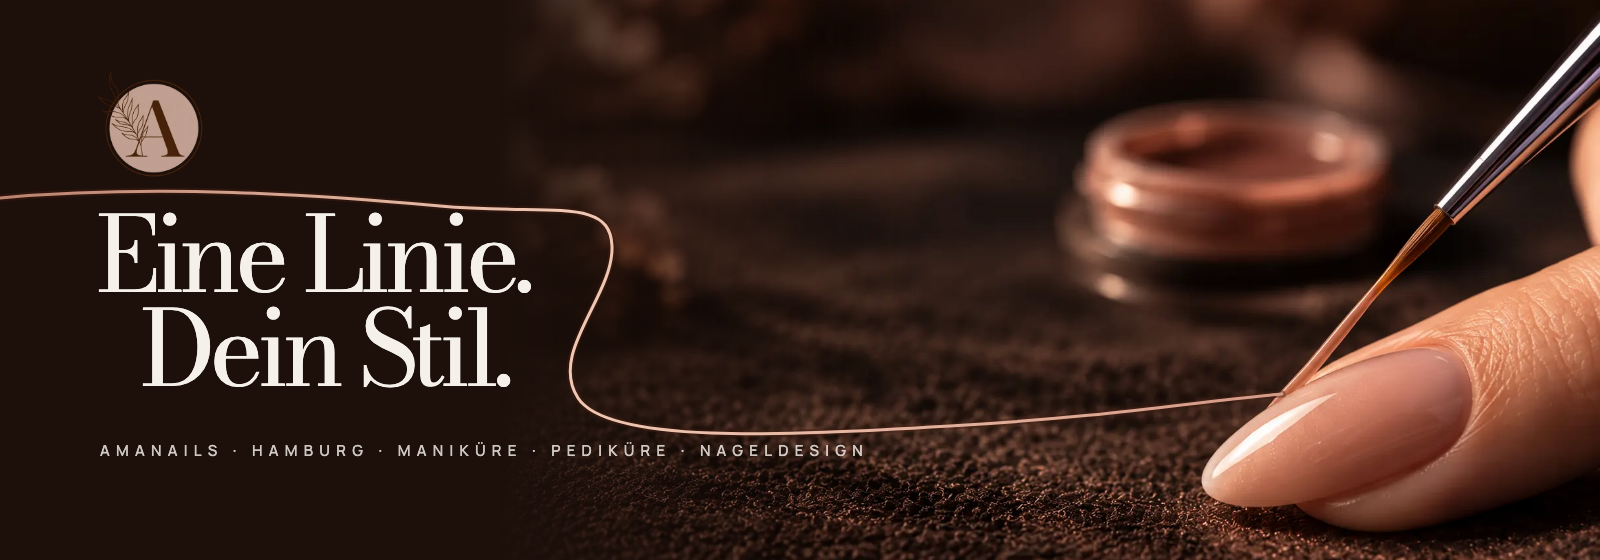
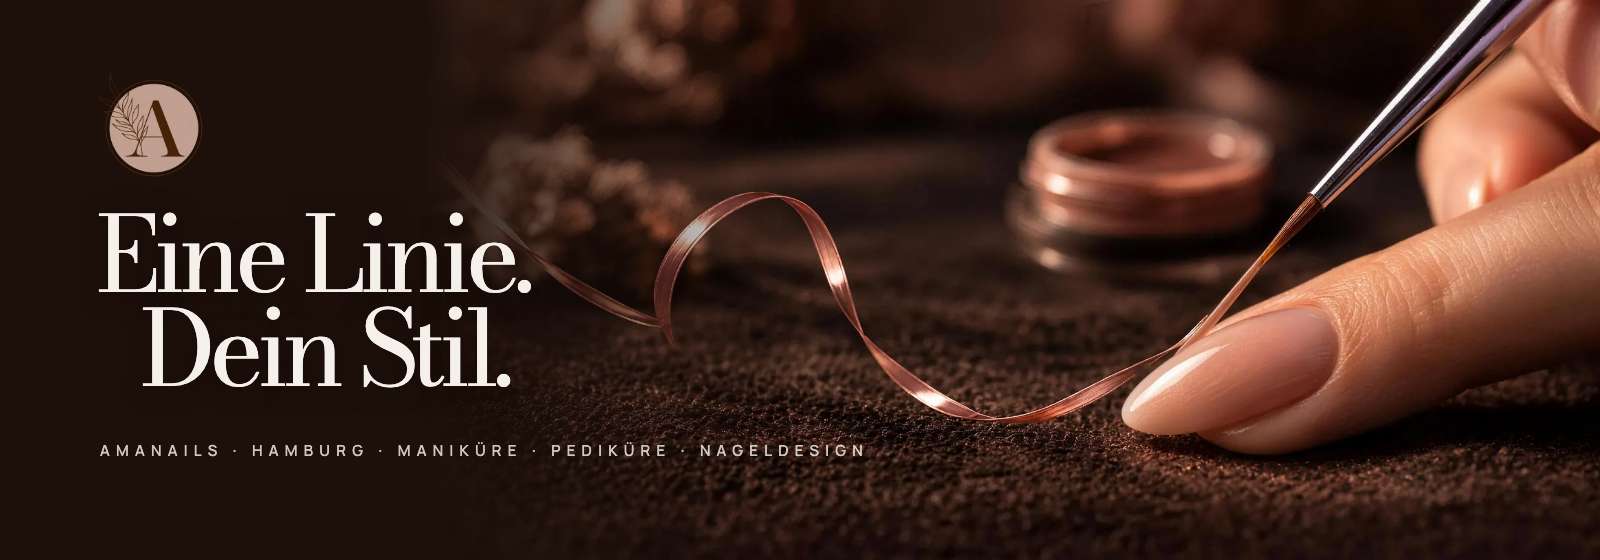
README for v2: the brush film, desktop density, satin ribbons
Banner, GIF and screen sheets re-captured from the production build. The GIF
steps the film by seeking (0.1 s per frame) and scrubs the title's CSS
transitions, so it shows the opening at its real pace (100 frames, 3.7 MB).
Text rewritten for the approved v2: board drawn at 1024 px density, plates at
the board's scale and outpainted, the keyframed MiniMax film, photographed
satin ribbons, measured page weight, 68 QA checks, the new scripts. The
generated-imagery TODO now covers the film and the ribbons.

diff --git a/index.html b/index.html
@@ -43,7 +43,7 @@
 
 <main id="top">
   <!-- 01 · Eine Linie. Dein Stil. (campaign plate, brush + nail in front of the title) -->
-  <!-- TODO(amanails): owner signs off the two generated plates (opening, macro); if an image-source note is wanted, it goes in the Impressum -->
+  <!-- TODO(amanails): owner signs off the generated imagery (opening plate and film, macro, satin ribbons); if an image-source note is wanted, it goes in the Impressum -->
   <section id="start" class="hero" aria-labelledby="hero-title">
     <div class="hero-stage">
       <div class="hero-cam" data-cam>

diff --git a/scripts/readme-composite.py b/scripts/readme-composite.py
@@ -75,6 +75,6 @@ print("banner.png", round((OUT / "banner.png").stat().st_size / 1024), "KB")
 frames = sorted((SRC / "frames").glob("f_*.png"))
 subprocess.run([
     "ffmpeg", "-y", "-loglevel", "error", "-framerate", "10", "-i", str(SRC / "frames/f_%04d.png"),
-    "-vf", "fps=7,scale=720:-1:flags=lanczos,split[a][b];[a]palettegen=max_colors=96:stats_mode=diff[p];[b][p]paletteuse=dither=bayer:bayer_scale=5:diff_mode=rectangle",
+    "-vf", "fps=10,scale=720:-1:flags=lanczos,split[a][b];[a]palettegen=max_colors=80:stats_mode=diff[p];[b][p]paletteuse=dither=bayer:bayer_scale=5:diff_mode=rectangle",
     "-loop", "0", str(OUT / "hero-scroll.gif")], check=True)
 print("hero-scroll.gif", len(frames), "frames", round((OUT / "hero-scroll.gif").stat().st_size / 1024), "KB")

diff --git a/README.md b/README.md
@@ -2,7 +2,7 @@
 
 <img src=".github/assets/banner.png" alt="Amanails Hamburg: Eine Linie. Dein Stil." width="100%" />
 
-<h3>A one-page website for a Hamburg nail studio, built around one rosé line that leaves the brush and runs through the whole page.</h3>
+<h3>A one-page website for a Hamburg nail studio that opens with one gesture: a fine brush releases a rosé satin ribbon.</h3>
 
 <p>
   <a href="https://amanails-hamburg.vercel.app"><strong>🌐 Live site</strong></a>
@@ -26,14 +26,15 @@
 
 ## 🚀 Overview
 
-**Amanails** does manicure, pedicure and nail design in Hamburg's Wendenstraße. The approved direction, *Gesto*, turns the studio's craft into a single gesture: a fine brush draws a rosé line across a nude nail, and that same line keeps going as you scroll. It wraps the title, slips between the detail shot and the real work, runs along the one blush pause with the services, and ends in the studio itself.
+**Amanails** does manicure, pedicure and nail design in Hamburg's Wendenstraße. The approved direction, *Gesto*, turns the studio's craft into a single gesture: a fine brush lifts from a nude nail and a satin ribbon of rosé lacquer unfurls from its tip. The same satin then rides the edges between the scenes, from the macro shot to the real work, the one blush pause with the services and the studio itself.
 
-The desktop page is the client's approved board rebuilt at its own proportions; the phone layout keeps the same story in one column. Everything leads to one action: **Termin anfragen**, which opens a short sheet with Instagram, phone and address. There is no booking engine and no fake confirmation.
+The desktop page is the client's approved board rebuilt at the density of a desktop page; the phone layout keeps the same story in one column. Everything leads to one action: **Termin anfragen**, which opens a short sheet with Instagram, phone and address. There is no booking engine and no fake confirmation.
 
-- **Board-exact desktop**: text, logo and contours placed in board units measured from the approved mockup
+- **Board-exact, at the right scale**: text, logo, photos and contours placed in board units measured from the approved mockup, drawn at the density of a 1,024 px board so nothing reads as a zoomed-in crop
+- **A filmed gesture, not a drawn line**: the opening is a short film generated from the scene's own first and last frames; the satin on the edges is photographed ribbon, not vector strokes
 - **Type behind the subject**: the title sits behind the finger and the brush, *DEIN.* sits behind the client's real hands
 - **Real studio, real work**: the two documentary photos are shown as they are; the full work photo opens byte-for-byte as received
-- **Light**: about 540 KB for the whole page on desktop and 370 KB on a phone (AVIF, self-hosted fonts, no library)
+- **Measured weight**: about 1.5 MB for the whole page on desktop (0.54 MB of it the film) and 0.9 MB on a phone (0.33 MB film), AVIF/WebP images, WebM/MP4 film, self-hosted fonts, no library
 
 <br />
 
@@ -42,60 +43,62 @@ The desktop page is the client's approved board rebuilt at its own proportions; 
 ## 🎬 The hero animation
 
 <div align="center">
-  <a href="https://amanails-hamburg.vercel.app"><img src=".github/assets/hero-scroll.gif" alt="The title rises, the brush draws a rosé line that loops through the title, then the satin detail scene slides up over the pinned opening scene" width="100%" /></a>
-  <sub>Intro, then scroll-scrubbed on the live site · captured at 1440 × 900</sub>
+  <a href="https://amanails-hamburg.vercel.app"><img src=".github/assets/hero-scroll.gif" alt="The brush releases a rosé satin ribbon that loops behind the title, the title rises behind the finger, then the satin detail scene slides up over the pinned opening scene" width="100%" /></a>
+  <sub>The opening film at its real pace, then the scroll into the next scene · captured at 1440 × 900</sub>
 </div>
 
 <br />
 
 The opening scene is pinned for 0.65 screen heights on desktop (0.4 on phones) while the next scene slides over it:
 
-| Moment          | What happens                                                                                       |
-| :-------------- | :------------------------------------------------------------------------------------------------- |
-| Load, 0–1.7 s   | *Eine Linie.* and *Dein Stil.* rise from their own masks, 160 ms apart; logo and note fade in        |
-| Load, 0.5–3.1 s | The rosé line is drawn **from the bristle tip**: under *Stil*, up through the title, out to the left |
-| Scroll 0–100%   | The camera pushes in (scale 1 → 1.11) on plate, finger cut-out and line together                    |
-| Scroll 0–100%   | The satin scene *Von der Idee zum Detail.* rises over the pinned scene along its own wavy contour    |
-| After the pin   | A compact bar with the logo, navigation and **Termin anfragen** slides in                          |
+| Moment          | What happens                                                                                              |
+| :-------------- | :-------------------------------------------------------------------------------------------------------- |
+| Load            | The film's first frame is on screen: brush on the nail, nothing else moving; logo and note fade in        |
+| 0–5.2 s         | The brush lifts and a satin ribbon unfurls from its tip, loops behind the title and leaves on the left    |
+| From 1.1 s      | *Eine Linie.* and *Dein Stil.* rise from their own masks, behind the finger, while the ribbon is in the air |
+| End             | The film rests on its last frame; it plays once, muted, and never loops                                   |
+| Scroll          | The satin scene *Von der Idee zum Detail.* rises over the pinned scene, a thin satin ribbon along its edge |
+| After the pin   | A compact bar with the logo, navigation and **Termin anfragen** slides in                                 |
 
 **Under the hood**
 
-- ✂ **Two copies of one plate.** The campaign plate is drawn twice: the full image behind the title and a cut-out of the finger and brush in front of it. The cut-out is a full-frame RGBA copy made with OpenCV GrabCut (`npm run prepare-images`), so both copies register pixel for pixel under the same `object-fit: cover` and the same camera transform. The kit's vector masks did not match the photos and were replaced.
-- 📍 **The line lives in plate pixels.** The opening line is an SVG with the plate's own `viewBox` and `preserveAspectRatio="xMidYMid slice"`, the vector equivalent of `cover`, so it starts on the bristle tip at every screen size (checked within 3 px by `npm run qa`).
-- 📐 **Measured from the board.** `npm run measure` scans the approved board for every text block; sizes come from the fonts' real cap heights. Contours between scenes are the board's own boundaries, traced and written as `objectBoundingBox` clip paths.
-- 🧵 **One ribbon, drawn by scroll.** Below the opening scene the ribbon is a single path through all four scenes. A lookup table built from `getPointAtLength` maps scroll depth to path length, so the drawn end stays at 82% of the viewport whatever the curve does.
-- 🐢 **Graceful by default.** `prefers-reduced-motion` or the footer's **Bewegung pausieren** button removes the pin, every transform and the reveals, and shows every line fully drawn. Without JavaScript the page is complete and static.
+- 📐 **Drawn at desktop density.** The approved board is only 760 px wide. Scaling it to the window drew everything at 1.9×; the page now maps board pixels at the density of a 1,024 px board (`1u = min(width, 1600px) / 1024`), centres the board and lets photos and colour run to the page edges. `npm run qa` checks it at 1280, 1440 and 1920 px: every scene under 0.8 screen heights, section titles under 7.5% of the width, no text under 11 px.
+- 🖼 **Photos at the board's own scale.** The opening plate and the macro were registered on the board with SIFT (0.5 board px per photo px) and are placed in board units instead of covering the viewport. To reach the screen edges without zooming in, both were extended with more of the same scene (Higgsfield, FLUX.2 Pro Outpaint, which keeps the original pixels).
+- 🎞 **A film made from its own end frames.** The last frame is the start plate with a satin ribbon added (GPT Image 2.5), registered back onto the plate so only the ribbon is new. MiniMax H3 animated between the two fixed frames with a locked camera. The film was SIFT-registered against the plate (scale 0.8415) and is placed with those numbers, so it sits exactly where the still sits.
+- ✂ **Two copies of one plate.** A cut-out of the finger and brush (OpenCV GrabCut, re-cut from the 4K plate) stays in front of the film; the finger does not move in the film (measured drift under 5/255), so the title can pass behind it the whole time.
+- 🎀 **Satin, photographed.** The ribbons were generated on pure black and turned into transparent images (alpha = brightness), then placed under the wave edges so their high ends tuck under the scene above. Each wipes in once and drifts 1.5% with the scroll.
+- 🐢 **Graceful by default.** `prefers-reduced-motion`, `?static`, data saver or the footer's **Bewegung pausieren** button show the film's last frame as a still and never download the film; the pin, transforms and reveals go away. Without JavaScript the page is complete and static.
 
 <br />
 
 ## 🖥 Sections
 
 <div align="center">
-  <img src=".github/assets/desktop-sections.jpg" alt="Desktop screenshots: the satin detail scene, DEIN. behind the real hands, the blush services pause and the studio contact scene" width="100%" />
+  <img src=".github/assets/desktop-sections.jpg" alt="Desktop screenshots: the satin detail scene, DEIN. behind the real hands, the blush services pause with a satin ribbon on its edge and the studio contact scene with the diagonal ribbon" width="100%" />
 </div>
 
 <br />
 
-| #   | Section                                  | Anchor        | Role                                                                                                  |
-| :-- | :--------------------------------------- | :------------ | :---------------------------------------------------------------------------------------------------- |
-| 01  | **Eine Linie. Dein Stil.**               | `#start`      | Brush and nail; title behind the finger; the line begins                                              |
-| 02  | **Von der Idee zum Detail.**             | `#detail`     | Macro on satin; lines rise from masks, the spaced caps tighten as the lens settles                    |
-| 03  | **Nägel mit Charakter.** *DEIN.*         | `#arbeiten`   | The studio's real work; the five letters rise one by one behind the hands; full photo and Instagram   |
-| 04  | **Für dich.**                            | `#leistungen` | The only solid section (#BFA398); the logo opens like an iris; Maniküre, Pediküre, Nageldesign        |
-| 05  | **Dein Moment bei Amanails.**            | `#studio`     | The real studio photo; **Termin anfragen**, directions; the footer sits on the same photo             |
+| #   | Section                                  | Anchor        | Role                                                                                                   |
+| :-- | :--------------------------------------- | :------------ | :----------------------------------------------------------------------------------------------------- |
+| 01  | **Eine Linie. Dein Stil.**               | `#start`      | The brush film; title behind the finger                                                                |
+| 02  | **Von der Idee zum Detail.**             | `#detail`     | Macro on satin at the board's scale, anchored to the page edge; a thin ribbon along its edge           |
+| 03  | **Nägel mit Charakter.** *DEIN.*         | `#arbeiten`   | The studio's real work; the five letters rise one by one behind the hands; full photo and Instagram    |
+| 04  | **Für dich.**                            | `#leistungen` | The only solid section (#BFA398), a ribbon on its edge; the logo turns slowly; Maniküre, Pediküre, Nageldesign |
+| 05  | **Dein Moment bei Amanails.**            | `#studio`     | The real studio photo with the board's diagonal ribbon; **Termin anfragen**, directions; the footer sits on the same photo |
 
 <br />
 
 ## 📱 Mobile first, motion optional
 
 <div align="center">
-  <img src=".github/assets/mobile-screens.jpg" alt="Phone screenshots: opening scene, detail, DEIN. behind the hands, services and studio contact" width="100%" />
+  <img src=".github/assets/mobile-screens.jpg" alt="Phone screenshots: opening scene with the ribbon, detail, DEIN. behind the hands, services and studio contact" width="100%" />
 </div>
 
 <br />
 
-- Its own vertical campaign plate and cut-out; the desktop plates are never downloaded on phones
-- Shorter pin, title at the top, the ribbon reroutes around the copy
+- Its own vertical film and plate (9:16, outpainted from the kit's 4:5 frame) and a vertical macro; the desktop plates and film are never downloaded on phones
+- Shorter pin, title at the top over the dark bokeh
 - The studio photo becomes a top band that melts into the contact block, so the neon sign never sits behind the heading
 - Full-screen menu, touch targets of at least 44 px, no horizontal scroll at 360 px
 
@@ -103,11 +106,11 @@ The opening scene is pinned for 0.65 screen heights on desktop (0.4 on phones) w
 
 ## ✨ Highlights
 
-- **🎞 One narrative element**: the line is drawn by the brush, follows every scene and rides the contours between them
-- **🔠 A different move per scene**: camera push, mask-rise lines, letter-by-letter *DEIN.* behind the hands, iris reveal of the logo, studio copy sliding in
+- **🎞 One gesture, one material**: the brush film opens the page and the same satin returns on the scene edges and across the studio
+- **🔠 A different move per scene**: film and title rise, mask-rise lines, letter-by-letter *DEIN.* behind the hands, the logo turning in the blush pause, studio copy rising in, satin wiping in
 - **🗓 Honest booking**: **Termin anfragen** opens Instagram, phone and address. The services open short descriptions with the same call to action
 - **🖼 Untouched originals**: the work photo dialog loads `originals/work-original.png`, the exact file received (hash-checked in QA)
-- **🧪 Browser QA**: 44 checks on the production build and on the live site, from link targets and dialogs to reduced motion and no-JS
+- **🧪 Browser QA**: 68 checks on the production build and on the live site, from photo scale and the film's end state to dialogs, reduced motion and no-JS
 - **🔎 Ready to share**: Open Graph image, `NailSalon` structured data, favicons; `noindex` until the final domain is set
 
 <br />
@@ -119,8 +122,9 @@ The opening scene is pinned for 0.65 screen heights on desktop (0.4 on phones) w
 
 ### Why this stack?
 
-- **Vite + plain JavaScript**: one static page and one small module; the motion is a single `requestAnimationFrame` loop that only runs while the page scrolls
-- **OpenCV + sharp**: cut-outs, board measurements and the AVIF/WebP pipeline are scripts in the repo, so every image can be rebuilt
+- **Vite + plain JavaScript**: one static page and one small module; the motion is a single `requestAnimationFrame` loop that only runs while the page scrolls, and the film is a plain `<video>`
+- **Higgsfield for the generated imagery**: outpainted plates, the satin ribbons and the keyframed film, all made from the approved scene so they register with it
+- **OpenCV + sharp + FFmpeg**: registration, cut-outs, the AVIF/WebP pipeline and the WebM/MP4 film are scripts in the repo, so every asset can be rebuilt
 - **Self-hosted Bodoni Moda + Manrope**: the kit's typefaces as WOFF2, no third-party font requests
 - **Playwright**: real clicks, scroll and captures against the production build
 - **Vercel**: every push to `main` deploys automatically
@@ -133,14 +137,14 @@ The opening scene is pinned for 0.65 screen heights on desktop (0.4 on phones) w
 | :------- | :-------------------------------------------------------------------------- | :------------------------------------------ |
 | Espresso | ![#4B2D18](https://img.shields.io/badge/%234B2D18-4B2D18?style=flat-square) | Type on blush, dialogs, logo                |
 | Blush    | ![#BFA398](https://img.shields.io/badge/%23BFA398-BFA398?style=flat-square) | The single solid section                    |
-| Rosé     | ![#C29A8A](https://img.shields.io/badge/%23C29A8A-C29A8A?style=flat-square) | Primary button, line gradient               |
+| Rosé     | ![#C29A8A](https://img.shields.io/badge/%23C29A8A-C29A8A?style=flat-square) | Primary button, the satin                   |
 | Ivory    | ![#F5F0EA](https://img.shields.io/badge/%23F5F0EA-F5F0EA?style=flat-square) | Type on photos, dialogs                     |
 | Night    | ![#1D100B](https://img.shields.io/badge/%231D100B-1D100B?style=flat-square) | Page ground, compact bar                    |
 
-- **Type**: Bodoni Moda for display (92 board units for the title, −0.06 em), Manrope for navigation and spaced caps (0.3 em tracking)
-- **Units**: `1u` = page width ÷ 760 (the board's width), capped at 1,600 px; the opening scene uses `1hu = min(1u, 100svh ÷ 440)` so it always fits the first screen
-- **Contours**: each scene's top edge is the board's own boundary as a clip path, with a thin rosé edge drawn when it enters
-- **Motion**: scroll-scrubbed and reversible; nothing loops while the page is still
+- **Type**: Bodoni Moda for display (92 board units for the title, −0.06 em), Manrope for navigation and spaced caps (0.3 em tracking); small text never under 11 px
+- **Units**: `1u` = min(page width, 1,600 px) ÷ 1,024, the density of a desktop board; the 760u board is a centred frame and photos bleed past it. The opening scene uses `1hu = min(1u, 100svh ÷ 440)` so it always fits the first screen
+- **Contours**: each scene's top edge is the board's own boundary as a clip path
+- **Motion**: the film plays once; everything else enters once or follows the scroll; nothing loops while the page is still
 
 <br />
 
@@ -165,13 +169,15 @@ npm run build
 # Preview the production build  →  http://localhost:4317
 npm run preview
 
-# Browser QA (44 checks) and the board comparison, against the preview
+# Browser QA (68 checks) and the board comparison, against the preview
 npm run qa
 npm run compare
 
-# Rebuild the images: cut-outs (Python + OpenCV), then AVIF/WebP
+# Rebuild the images: cut-outs (Python + OpenCV), the Higgsfield masters, then AVIF/WebP and the film
 npm run prepare-images
+npm run prepare-higgsfield   # reads higgsfield/entregas/ (kept out of git)
 npm run images
+npm run film                 # needs FFmpeg with libx264, libvpx-vp9 and libwebp
 ```
 
 <br />
@@ -182,24 +188,27 @@ npm run images
 Amanailswebsite/
 ├── index.html                  # Every scene: start → detail → arbeiten → leistungen → studio (+ footer, dialogs, contour clip paths)
 ├── src/
-│   ├── main.js                 # Opening line, ribbon, per-scene motion, menu, dialogs, pause
-│   ├── style.css               # Board units, scenes, phone layout, motion-off states
+│   ├── main.js                 # Opening film, pin, satin and per-scene motion, menu, dialogs, pause
+│   ├── style.css               # Board units, scenes, film and satin, phone layout, motion-off states
 │   ├── board.json              # Text blocks measured on the approved board
 │   └── images.json             # Image sizes written by the pipeline
 ├── public/
-│   ├── img/                    # AVIF/WebP plates, cut-outs, logo (generated, versioned names)
+│   ├── img/                    # AVIF/WebP plates, cut-outs, satin ribbons, logo (generated, versioned names)
+│   ├── film/                   # The opening film, desktop 21:9 and phone 9:16, WebM + MP4
 │   ├── originals/              # The two client photos, byte-identical
 │   └── fonts/                  # Bodoni Moda + Manrope (WOFF2, OFL)
 ├── scripts/
 │   ├── prepare-images.py       # GrabCut cut-outs (finger + brush, hands) and logo symbol / line art
-│   ├── images.mjs              # sharp pipeline, Open Graph card, favicons
+│   ├── prepare-higgsfield.py   # Chosen Higgsfield deliveries → plates, 4K cut-outs, transparent ribbons
+│   ├── images.mjs · film.mjs   # sharp pipeline (+ Open Graph card, favicons) and FFmpeg film encodes
 │   ├── measure-board.py        # Ink boxes of every text block on the board
 │   ├── contours.mjs            # Board boundaries → clip paths
 │   ├── qa.mjs · compare.mjs    # Browser QA and page-vs-board comparison
 │   └── readme-assets.mjs       # Captures for this README (+ readme-composite.py)
+├── higgsfield/                 # PROMPTS-HIGGSFIELD.md: every prompt and the log of chosen files
 ├── docs/ · roteiros/ · animation/ · images-master/ · originals/ · site/ · tools/
 │                               # The design kit, kept as received (LEIA-ME-KIT.md); never deployed
-└── vercel.json                 # Vite, dist, noindex header, immutable cache for /img and /fonts
+└── vercel.json                 # Vite, dist, noindex header, immutable cache for /img, /film and /fonts
 ```
 
 <br />
@@ -225,7 +234,7 @@ Items waiting on the studio. Each one is marked `TODO(amanails)` in the code.
 - [ ] **Impressum** and **Datenschutzerklärung** (required in Germany before going public); links go in the footer
 - [ ] Final domain, then drop `noindex` (`index.html`, `vercel.json`, `public/robots.txt`) and set `canonical` + `og:url`
 - [ ] Permission to publish the work photo and the studio photo
-- [ ] Sign-off on the two generated campaign images (opening scene, macro). If a note on image sources is wanted, it belongs in the Impressum
+- [ ] Sign-off on the generated imagery (opening plate and film, macro, satin ribbons). If a note on image sources is wanted, it belongs in the Impressum
 - [ ] Wording of the three service descriptions
 - [ ] Vector logo master (the current mark is a raster reconstruction from the kit)
 
@@ -233,6 +242,7 @@ Choices made where the kit and the board disagreed:
 
 - The board's *DEIN.* is taller than Bodoni Moda can be at that width; the word is fitted to the board's width (cap height 210u instead of 258u)
 - The board reinterprets the work and studio photos; the page uses the original photos, as the kit asks
+- The board's ribbons are rendered satin; the page uses photographed satin ribbons and a filmed gesture instead of vector lines
 - The kit's visible photo labels and the "Bildhinweise" dialog are not on the page; that information lives here and in the code
 - Copy that is in the kit but not on the board (eyebrows, extra lines) was left out to match the approved board
 
@@ -242,7 +252,8 @@ Choices made where the kit and the board disagreed:
 
 - **Amanails** for the brief, the photos and the approved *Gesto* direction
 - **[Bodoni Moda](https://fonts.google.com/specimen/Bodoni+Moda)** by Owen Earl and **[Manrope](https://fonts.google.com/specimen/Manrope)** by Mikhail Sharanda (OFL)
-- **[OpenCV](https://github.com/opencv/opencv)** and **[sharp](https://sharp.pixelplumbing.com)** for the image pipeline
+- **[Higgsfield](https://higgsfield.ai)** for the outpainted plates, the satin ribbons and the opening film
+- **[OpenCV](https://github.com/opencv/opencv)**, **[sharp](https://sharp.pixelplumbing.com)** and **[FFmpeg](https://ffmpeg.org)** for the image and film pipeline
 - **[Vite](https://vite.dev)**, **[Playwright](https://playwright.dev)** and **[Vercel](https://vercel.com)**
 
 <br />
